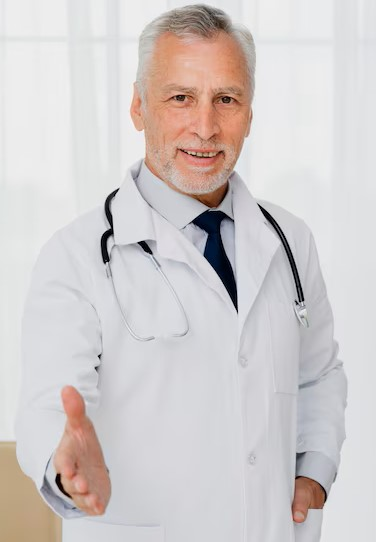
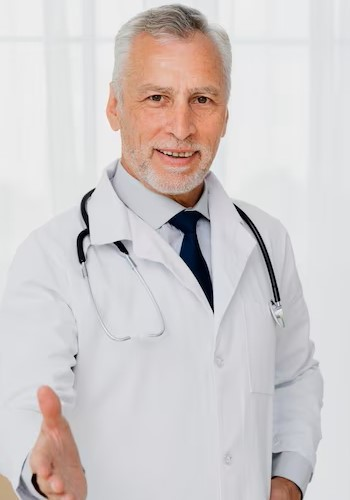
new changes

diff --git a/index.html b/index.html
@@ -162,7 +162,7 @@
         </div>
       </div>
       <div class="trainer__card">
-        <img src="assets/doctor4.avif" alt="trainer" />
+        <img src="assets/doctor4.jpg" alt="trainer" />
         <h4>SOFIA LAUREN</h4>
         <p>Therapist</p>
         <div class="trainer__socials">
@@ -179,122 +179,55 @@
   <br>
   <br>
 
-  <section class="membership">
-    <div class="section__container membership__container">
-      <h2 class="section__header">MEMBERSHIP</h2>
-      <div class="membership__grid">
-        <div class="membership__card">
-          <h4>STANDARD</h4>
-          <ul>
-            <li>
-              <span><i class="ri-check-line"></i></span>
-              Food delivery (once a week, limited assortment).
-            </li>
-            <li>
-              <span><i class="ri-check-line"></i></span>
-              Delivery of medicines (up to 5 items per month).
-            </li>
-            <li>
-              <span><i class="ri-check-line"></i></span>
-              Telephone consultation: basic consultation with a doctor or specialist (up to 15 minutes).
-            </li>
-            <li>
-              <span><i class="ri-check-line"></i></span>
-              Reminders about taking medications via SMS/calls.
-            </li>
-            <li>
-              <span><i class="ri-check-line"></i></span>
-              Monthly medical check-up (main parameters: pressure, temperature).
-            </li>
-            <li>
-              <span><i class="ri-check-line"></i></span>
-              An affordable option for people on a tight budget.
-            </li>
-          </ul>
-          <h3>$30<span>/month</span></h3>
-          <button class="btn btn__primary">BUY NOW</button>
-        </div>
-        <div class="membership__card">
-          <h4>PROFESSIONAL</h4>
-          <ul>
-            <li>
-              <span><i class="ri-check-line"></i></span>
-              All from the Standard package.
-            </li>
-            <li>
-              <span><i class="ri-check-line"></i></span>
-              Extended grocery delivery (up to twice a week, a large selection).
-            </li>
-            <li>
-              <span><i class="ri-check-line"></i></span>
-              Delivery of medicines (up to 10 items per month).
-            </li>
-            <li>
-              <span><i class="ri-check-line"></i></span>
-              Weekly video consultations with a doctor (up to 30 minutes).
-            </li>
-            <li>
-              <span><i class="ri-check-line"></i></span>
-              Diagnostic services at home (measurement of sugar levels, ECG, blood tests).
-            </li>
-            <li>
-              <span><i class="ri-check-line"></i></span>
-              Assistance in preparing recipes and orders from specialists.
-            </li>
-            <li>
-              <span><i class="ri-check-line"></i></span>
-              Emergency support: prompt delivery of necessary medications.
-            </li>
-          </ul>
-          <h3>$45<span>/month</span></h3>
-          <button class="btn btn__primary">BUY NOW</button>
-        </div>
-        <div class="membership__card">
-          <h4>ULTIMATE</h4>
-          <ul>
-            <li>
-              <span><i class="ri-check-line"></i></span>
-              All from the Professional Package.
-            </li>
-            <li>
-              <span><i class="ri-check-line"></i></span>
-              Unlimited delivery of food and medicines (including rare drugs).
-            </li>
-            <li>
-              <span><i class="ri-check-line"></i></span>
-              Daily visits by a health professional to check the condition.
-            </li>
-            <li>
-              <span><i class="ri-check-line"></i></span>
-              Round-the-clock support of a personal manager by phone or live chat.
-            </li>
-            <li>
-              <span><i class="ri-check-line"></i></span>
-              Personal physician: an individual treatment and health monitoring plan.
-            </li>
-            <li>
-              <span><i class="ri-check-line"></i></span>
-              Psychological support: regular sessions with a psychologist or counselor.
-            </li>
-            <li>
-              <span><i class="ri-check-line"></i></span>
-              Delivery of personal hygiene items and household chemicals.
-            </li>
-            <li>
-              <span><i class="ri-check-line"></i></span>
-              Organization of trips to hospitals and clinics (transport with escort).
-            </li>
-            <li>
-              <span><i class="ri-check-line"></i></span>
-              Carer services (if necessary, up to 8 hours a day).
-            </li>
-          </ul>
-          <h3>$60<span>/month</span></h3>
-          <button class="btn btn__primary">BUY NOW</button>
-        </div>
+
+<section class="membership">
+  <div class="section__container membership__container">
+    <h2 class="section__header">MEMBERSHIP</h2>
+    <div class="membership__grid">
+      <div class="membership__card">
+        <h4>STANDARD</h4>
+        <ul>
+          <li><span><i class="ri-check-line"></i></span> Food delivery (once a week, limited assortment).</li>
+          <li><span><i class="ri-check-line"></i></span> Delivery of medicines (up to 5 items per month).</li>
+          <li><span><i class="ri-check-line"></i></span> Telephone consultation (up to 15 minutes).</li>
+          <li><span><i class="ri-check-line"></i></span> Reminders about medications via SMS/calls.</li>
+          <li><span><i class="ri-check-line"></i></span> Monthly medical check-up (pressure, temperature).</li>
+          <li><span><i class="ri-check-line"></i></span> Affordable for people on a tight budget.</li>
+          <li><span><i class="ri-check-line"></i></span> Access to basic health resources and tips for healthy living.</li> <!-- Новый пункт -->
+        </ul>
+        <h3>$30<span>/month</span></h3>
+        <button class="btn btn__primary">BUY NOW</button>
+      </div>
+      <div class="membership__card">
+        <h4>PROFESSIONAL</h4>
+        <ul>
+          <li><span><i class="ri-check-line"></i></span> All from the Standard package.</li>
+          <li><span><i class="ri-check-line"></i></span> Extended grocery delivery (up to twice a week, large selection).</li>
+          <li><span><i class="ri-check-line"></i></span> Delivery of medicines (up to 10 items per month).</li>
+          <li><span><i class="ri-check-line"></i></span> Weekly video consultations with a doctor (up to 30 minutes).</li>
+          <li><span><i class="ri-check-line"></i></span> Diagnostic services at home (sugar levels, ECG, blood tests).</li>
+          <li><span><i class="ri-check-line"></i></span> Emergency support: prompt delivery of necessary medications.</li>
+        </ul>
+        <h3>$45<span>/month</span></h3>
+        <button class="btn btn__primary">BUY NOW</button>
+      </div>
+      <div class="membership__card">
+        <h4>ULTIMATE</h4>
+        <ul>
+          <li><span><i class="ri-check-line"></i></span> All from the Professional package.</li>
+          <li><span><i class="ri-check-line"></i></span> Unlimited delivery of food and medicines (including rare drugs).</li>
+          <li><span><i class="ri-check-line"></i></span> Daily visits by a health professional to check the condition.</li>
+          <li><span><i class="ri-check-line"></i></span> Round-the-clock support of a personal manager.</li>
+          <li><span><i class="ri-check-line"></i></span> Personal physician: treatment and health monitoring plan.</li>
+          <li><span><i class="ri-check-line"></i></span> Psychological support: regular sessions with a psychologist.</li>
+        </ul>
+        <h3>$60<span>/month</span></h3>
+        <button class="btn btn__primary">BUY NOW</button>
       </div>
     </div>
-  </section>
+  </div>
+</section>
+
 
     <footer class="footer" id="contact">
       <div class="section__container footer__container">

diff --git a/style.css b/style.css
@@ -425,12 +425,18 @@ nav {
   margin-top: 4rem;
   display: grid;
   gap: 1rem;
+  grid-template-columns: repeat(auto-fit, minmax(300px, 1fr));
 }
 
 .membership__card {
   padding: 1rem;
   background-color: rgba(0, 0, 0, 0.6);
   transition: 0.3s;
+  display: flex;
+  flex-direction: column;
+  justify-content: space-between;
+  height: 100%;  /* Устанавливает одинаковую высоту карточек */
+  width: 100%;
 }
 
 .membership__card:hover {

diff --git a/README.md b/README.md
@@ -2,4 +2,4 @@
 
 
 # Our Mission
-At CareConnect, we're dedicated to making healthcare and daily essentials accessible for seniors and individuals with disabilities. Our goal is to improve the quality of life by providing reliable, professional, and convenient services right to your doorstep.
+At CareConnect, we're dedicated to making healthcare and daily essentials accessible for seniors and individuals with disabilities. Our goal is to improve the quality of life by providing reliable, professional, and convenient services right to your doorstep!
